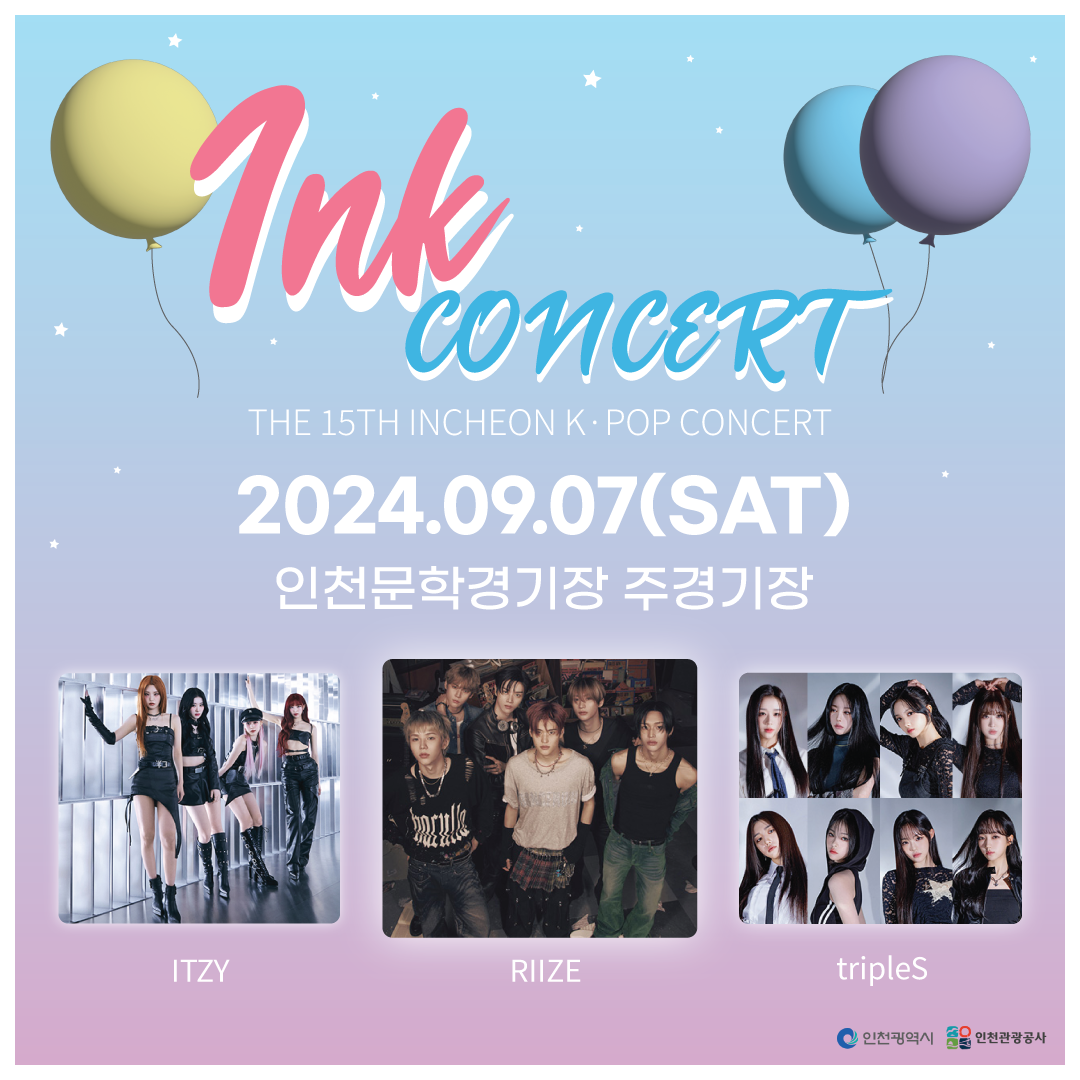
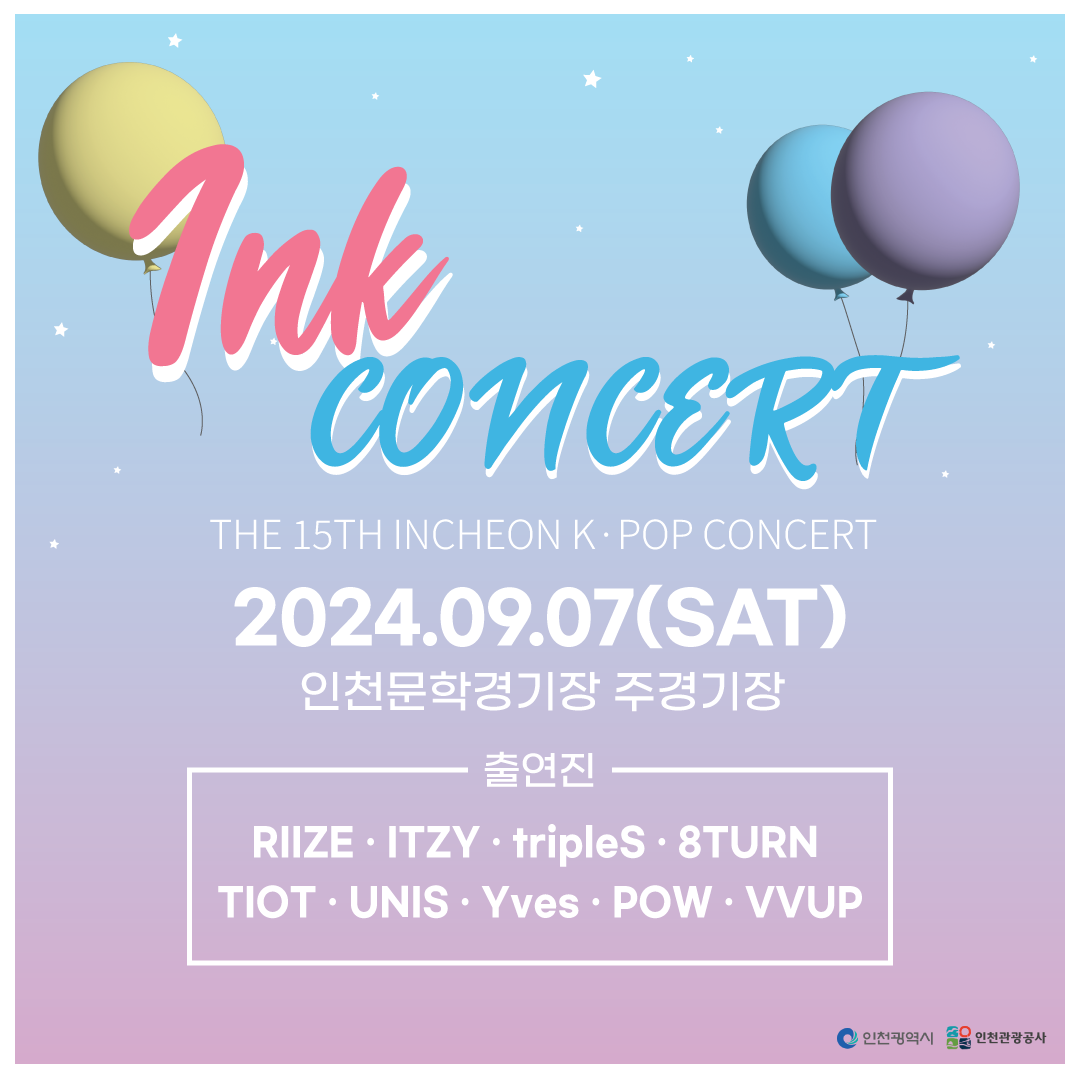
Add files via upload

diff --git a/index.html b/index.html
@@ -4,30 +4,30 @@
     <meta charset="UTF-8">
     <meta name="viewport" content="width=device-width, initial-scale=1.0">
     <title>portfolio</title>
-    <link rel="stylesheet" href="styles/base.css">
-    <link rel="stylesheet" href="styles/main.css">
     <link rel="preconnect" href="https://fonts.googleapis.com">
     <link rel="preconnect" href="https://fonts.gstatic.com" crossorigin>
     <link href="https://fonts.googleapis.com/css2?family=Gothic+A1:wght@100;200;300;400;500;600;700;800;900&display=swap" rel="stylesheet">
+    <script src="https://unpkg.com/swiper/swiper-bundle.js" defer></script>
+    <script src="https://unpkg.com/swiper/swiper-bundle.min.js" defer></script>
+    <link rel="stylesheet" href="https://cdnjs.cloudflare.com/ajax/libs/Swiper/11.0.5/swiper-bundle.css">
     <script src="scripts/main.js" defer></script>
+    <link rel="stylesheet" href="styles/base.css">
+    <link rel="stylesheet" href="styles/main.css">
 </head>
 <body>
     <header>
         <div class="title">
             <div class="title_cont">
-                <span>
-                    <p>YE EUN's</p>
-                </span>
-                <h2>2024 Web Publisher</h2>
-                <h1>PORT-FOLIO</h1>
-                <ul class="pf_list">
-                    <li><a href="#aboutme">About ME</a></li>
-                    <li><a href="#webRedesignProject">Web Redesign Project</a></li>
-                    <li><a href="#snsDesign">SNS Design</a></li>
-                    <li><a href="#bannerDesign">Banner Design</a></li>
-                    <li><a href="#detailDesign">Detail Design</a></li>
-                </ul>
+                <h2>2024 Web design</h2>
+                <h1>PORTFOLIO</h1>
             </div>
+            <ul class="pf_list">
+                <li><a href="#aboutme">About ME</a></li>
+                <li><a href="#webRedesignProject">Web Redesign Project</a></li>
+                <li><a href="#snsDesign">SNS Design</a></li>
+                <li><a href="#bannerDesign">Banner Design</a></li>
+                <li><a href="#detailDesign">Detail Design</a></li>
+            </ul>
         </div>
     </header><!-- header 끝 -->
     <section class="container cont1" id="aboutme">
@@ -194,46 +194,50 @@
     </section><!-- cont2 끝 -->
     <section class="container cont3" id="snsDesign">
         <div class="sub_title"><h3><span>02</span> SNS Design</h3></div>
-        <div class="contin">
-            <ul class="sns_list">
-                <li>
+        <div class="swiper sns_list">
+            <div class="swiper-wrapper">
+                <div class="swiper-slide">
                     <img src="img/sns1.jpg" alt="가을맞이 풀리오 특별 세일">
-                </li>
-                <li>
+                </div>
+                <div class="swiper-slide">
                     <img src="img/sns2.jpg" alt="귤 톡톡 릴렉싱 티플레저">
-                </li>
-                <li>
+                </div>
+                <div class="swiper-slide">
                     <img src="img/sns3.jpg" alt="라라스윗 시그니처 골드 케이크 라라스윗만의 노하우로 완성된 풍부하고 진한 달콤함"> 
-                </li>
-                <li>
+                </div>
+                <div class="swiper-slide">
                     <img src="img/sns4.png" alt="welcome 신규 회원가입 혜택 즉시 할인 쿠폰 3,000원">
-                </li>
-                <li>
+                </div>
+                <div class="swiper-slide">
                     <img src="img/sns5.jpg" alt="집 안에서 펼쳐지는 부담없는 상상력 ikea 영감을 주는 다양한 콘텐츠와 홈퍼니싱 아이디어를 살펴보고, 나에게 필요한 솔루션을 찾아보세요">
-                </li>
-                <li>
+                </div>
+                <div class="swiper-slide">
                     <img src="img/sns6.png" alt="the 15th ink incheon kpop concert">
-                </li>
-            </ul>
+                </div>
+            </div>
+            <div class="swiper-button-prev arrow"></div>
+            <div class="swiper-button-next arrow"></div>
         </div>
     </section><!-- cont3 끝 -->
     <section class="container cont4" id="bannerDesign">
         <div class="sub_title"><h3><span>03</span> Banner Design</h3></div>
-        <div class="contin">
-            <ul class="bn_list">
-                <li>
+        <div class="swiper bn_list">
+            <div class="swiper-wrapper">
+                <div class="swiper-slide">
                     <img src="img/bn1.jpg" alt="누적판매 350만개 국민 트러블 앰플 레티놀 시카 앰플">
-                </li>
-                <li>
+                </div>
+                <div class="swiper-slide">
                     <img src="img/bn2.jpg" alt="최애캐릭터 잠옷을 찾는다면? pajama olymplad">
-                </li>
-                <li>
+                </div>
+                <div class="swiper-slide">
                     <img src="img/bn3.jpg" alt="아키클래식">
-                </li>
-                <li>
+                </div>
+                <div class="swiper-slide">
                     <img src="img/bn4.jpg" alt="네파 아웃도어 빅세일 24fw 다운재킷 20% + 추가 10% off">
-                </li>
-            </ul>
+                </div>
+            </div>
+            <div class="swiper-button-prev arrow"></div>
+            <div class="swiper-button-next arrow"></div>
         </div>
     </section><!-- cont4 끝 -->
     <section class="container cont5" id="detailDesign">

diff --git a/styles/main.css b/styles/main.css
@@ -5,79 +5,46 @@ body > *{
     min-width: 1680px;
 }
 header {
-    background-color: #004E11;
-    padding-top: 20px;
+    padding-top: 15px;
     height: 100vh;
+    position: relative;
+    border: 20px solid #27492f;
 }
 header .title {
-    position: relative;
-    background-color: #fff;
-    width: calc(100% - 40px);
-    height: calc(100% - 20px);
     margin: 0px auto;
-}
-header .title .title_cont {
     position: absolute;
-    top: 50%; left: 50%; transform: translate(-50%, -50%);
-    display: flex;
-    flex-flow: column;
-    justify-content: center;
-    align-items: center;
-    border-radius: 100%;
-    border: 3px solid #004E11;
-    width: 900px; height: 700px;
-    padding: 50px;
-}
-header .title .title_cont span {
-    display: flex;
-    align-items: end;
-}
-header .title .title_cont span p {
-    font-size: 2.22rem;
-    margin-bottom: 15px; margin-left: -30px;
+    top: 50%; left: 5%; transform: translateY(-50%);
 }
 header .title .title_cont h2 {
-    font-size: 2.778rem;
-    margin: 30px 0 50px;
+    font-size: 1.778rem;
 }
 header .title .title_cont h1 {
-    font-size: 6.111rem;
+    font-size: 5rem;
     font-weight: 800;
-    background: linear-gradient(hwb(83 3% 81%), #44991c);
-    background-clip: text;
-    -webkit-background-clip: text;
-    color: transparent;
+    color: #2c5035;
     padding-top: 5px;
     letter-spacing: -0.1rem;
+    line-height: 1.2;
+    margin: 30px 0;
 }
-header .title .title_cont ul {
+header .title ul {
     display: flex;
-    justify-content: center;
-    width: 550px;
-    margin-top: 50px;
-    flex-flow: row wrap;
 }
-header .title .title_cont .pf_list li {
+header .title .pf_list li {
     margin-right: 30px;
 }
-header .title .title_cont .pf_list li:nth-child(2), header .title .title_cont .pf_list li:nth-child(5) {
-    margin-right: 0px;
-}
-header .title .title_cont .pf_list li:nth-child(3), header .title .title_cont .pf_list li:nth-child(4), header .title .title_cont .pf_list li:nth-child(5) {
-    margin-top: 30px;
-}
-header .title .title_cont .pf_list li a {
+header .title .pf_list li a {
     font-size: 1.222rem;
     border-bottom: 1px solid transparent;
     transition: all 0.3s;
 }
-header .title .title_cont .pf_list li a:hover {
+header .title .pf_list li a:hover {
     color: #44991c;
     border-bottom: 1px solid #44991c;
 }
 /* ==================== cont 공통 ================== */
 .container {
-    border-bottom: 2px solid #004E11;
+    border-bottom: 2px solid #27492f;
     display: flex;
     flex-flow: column;
     justify-content: center;
@@ -95,6 +62,9 @@ header .title .title_cont .pf_list li a:hover {
 .container .contin {
     width: calc(100% - 240px);
     margin: 0 auto;
+}
+.container .swiper .arrow {
+    color: #999;
 }
 /* ========================= about me ======================= */
 .cont1 {
@@ -144,13 +114,14 @@ header .title .title_cont .pf_list li a:hover {
 .cont1 .contin .about_cont .about_list h4 {
     font-size: 1.222rem;
     color: #000;
-    border-bottom: 3px solid #004E11;
+    border-bottom: 3px solid #27492f;
     display: inline-block;
     margin-bottom: 20px;
     letter-spacing: -0.05rem;
 }
 .cont1 .contin .about_cont .about_list p {
     margin-bottom: 20px;
+    white-space: nowrap;
 }
 .cont1 .contin .about_cont .about_list p:last-child {
     margin-bottom: 0px;
@@ -205,7 +176,7 @@ header .title .title_cont .pf_list li a:hover {
 .cont2 .web_list .title h4 {
     font-size: 2.222rem;
     color: #000;
-    border-bottom: 3px solid #004E11;
+    border-bottom: 3px solid #27492f;
     display: inline-block;
 }
 .cont2 .web_list .title .hash {
@@ -256,27 +227,23 @@ header .title .title_cont .pf_list li a:hover {
     margin-left: 120px;
     margin-top: 0%;
 } 
-.cont3 .contin .sns_list {
-    display: flex;
-    flex-flow: row wrap;
+.cont3 .sns_list {
+    width:1800px;
+    margin: 30px auto;
+    overflow: visible;
 }
-.cont3 .contin .sns_list li {
-    width: calc((80% - 60px) / 3);
-    margin: 0 auto;
-}
-.cont3 .contin .sns_list li img {width: 100%;}
+.cont3 .sns_list .swiper-wrapper .swiper-slide {transition: all 0.3s;}
+.cont3 .sns_list .swiper-wrapper .swiper-slide img {width: 100%;}
+.cont3 .sns_list .swiper-wrapper .swiper-slide:hover {transform: scale(110%);}
 /* ===============cont4===============*/
-.cont4 .contin .bn_list {
-    display: flex;
-    flex-flow: row wrap;
-    margin: 0 auto;
+.cont4 .bn_list {
+    width: 1800px;
+    margin: 50px auto;
+    overflow: visible;
 }
-.cont4 .contin .bn_list li {
-    width: calc((100% - 60px) /2);
-}
-.cont4 .contin .bn_list li:nth-child(1), .cont4 .contin .bn_list li:nth-child(3) {margin-right: 20px;}
-.cont4 .contin .bn_list li img {width: 100%;}
-
+.cont4 .bn_list .swiper-wrapper .swiper-slide {transition: all 0.3s;}
+.cont4 .bn_list .swiper-wrapper .swiper-slide img {width: 100%;}
+.cont4 .bn_list .swiper-wrapper .swiper-slide:hover {transform: scale(110%);}
 /* ================cont5=============== */
 #detailDesign {}
 #detailDesign .sub_title {

diff --git a/scripts/main.js b/scripts/main.js
@@ -6,7 +6,26 @@ $('.popup').on('click', function(e){
     e.preventDefault();
     $('.popup').hide();
 }); */
-
+const sns = new Swiper(".sns_list", {
+    slidesPerView: 3,
+    spaceBetween: 40,
+    autoplay : {delay:5000},
+    loop: true,
+    navigation:{
+        prevEl : '.sns_list .swiper-button-prev',
+        nextEl : '.sns_list .swiper-button-next',
+    },
+})
+const bn = new Swiper(".bn_list", {
+    slidesPerView: 2,
+    spaceBetween: 50,
+    autoplay : {delay:5000},
+    loop: true,
+    navigation:{
+        prevEl : '.bn_list .swiper-button-prev',
+        nextEl : '.bn_list .swiper-button-next',
+    },
+})
 const thumnail_detail = document.querySelectorAll('#detailDesign .thumnail a')
 const popup_detail = document.querySelector('#detailDesign .popup')
 console.log(popup_detail)
